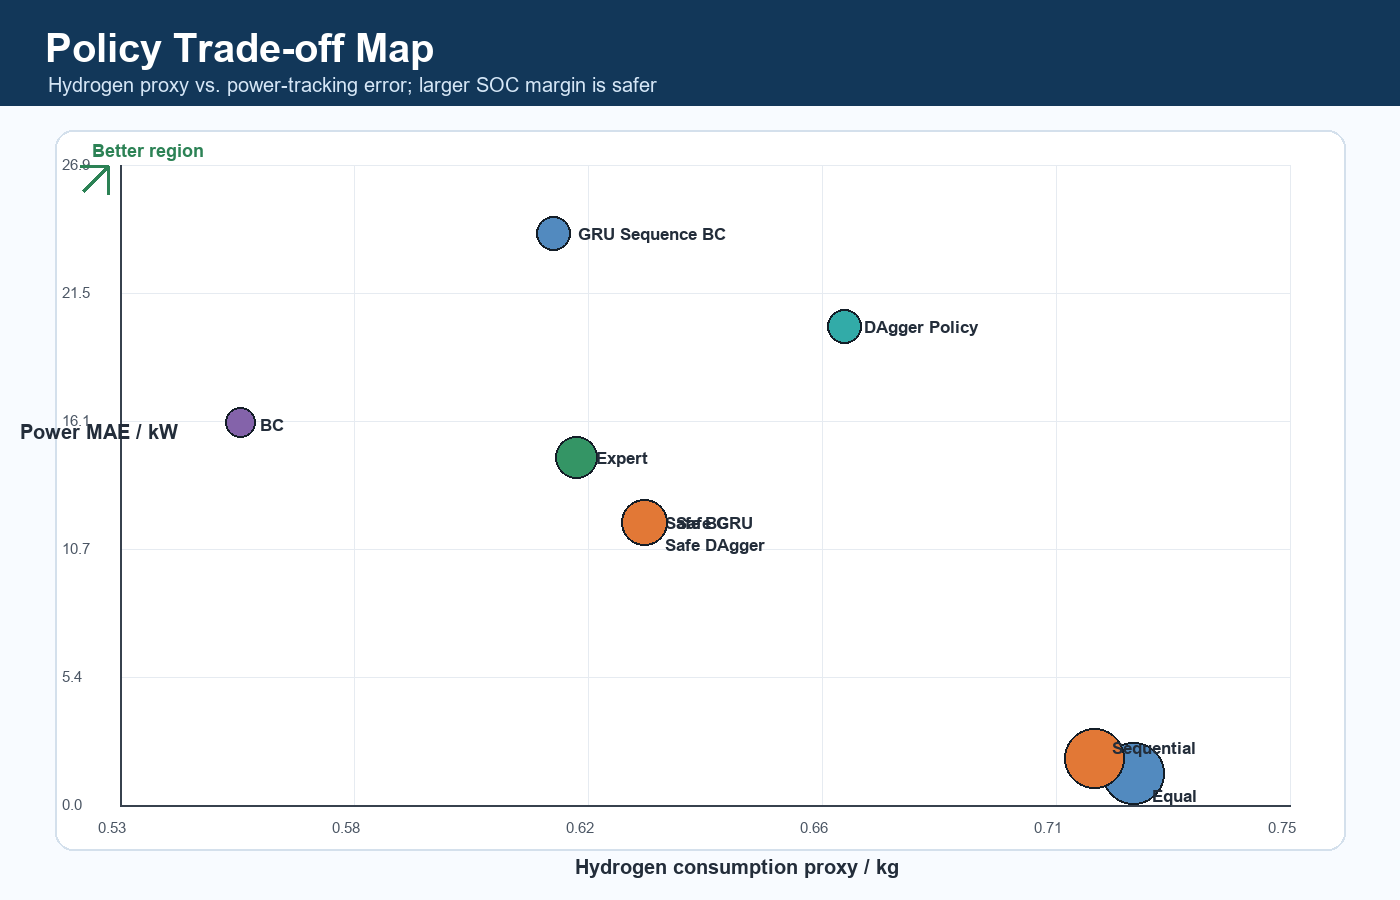
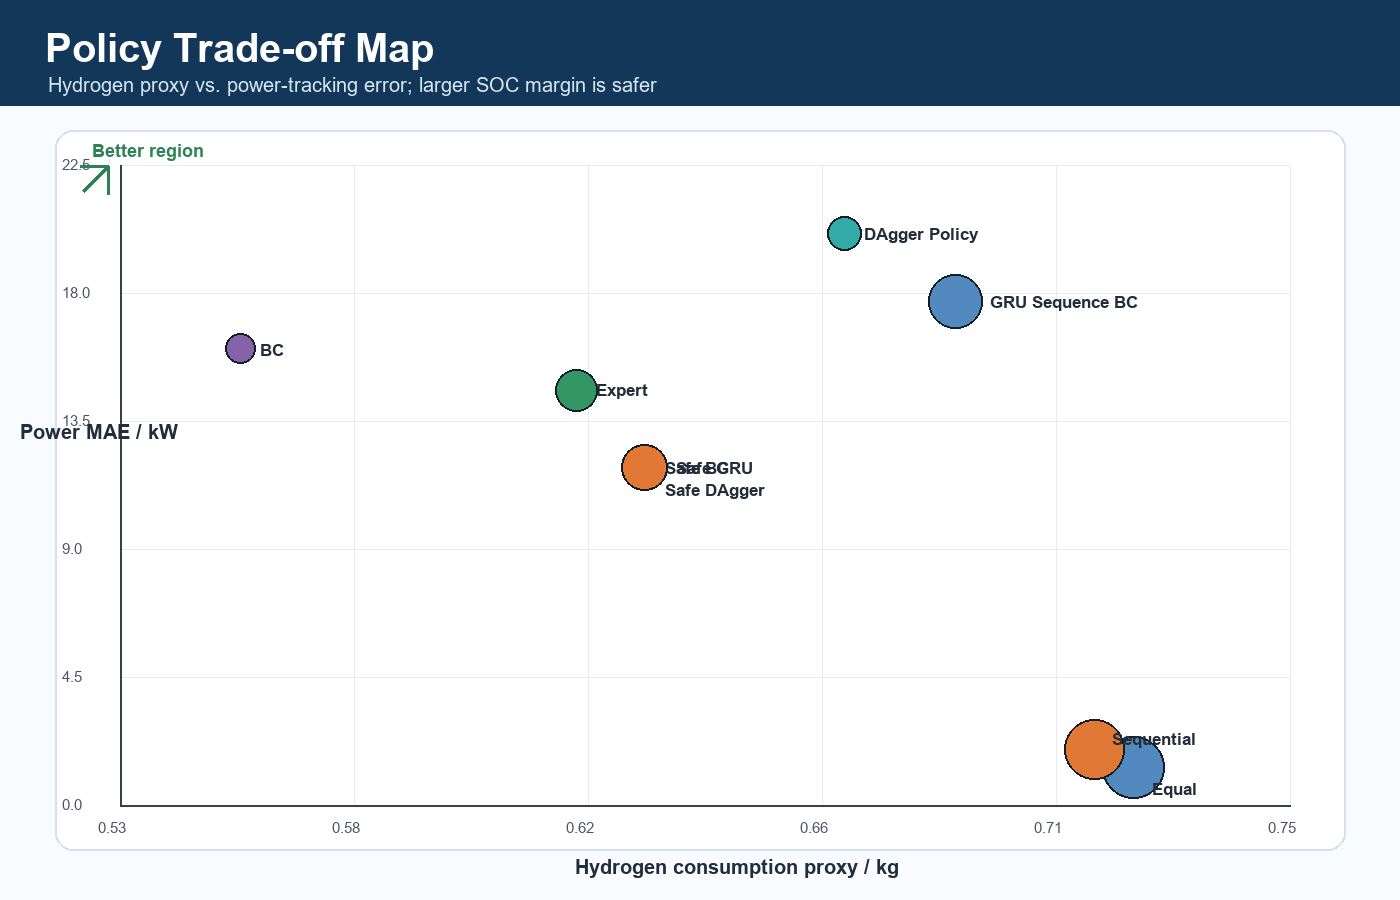
Add EPA expert data pipeline for sequence BC

diff --git a/scripts/generate_cycle_expert_dataset.py b/scripts/generate_cycle_expert_dataset.py
@@ -1,0 +1,59 @@
+import argparse
+import sys
+from pathlib import Path
+
+import numpy as np
+
+ROOT = Path(__file__).resolve().parents[1]
+sys.path.insert(0, str(ROOT / "python"))
+
+from multistack_ai import EnvConfig, HealthAwareExpert, MultiStackFuelCellEnv, available_cycles, make_cycle_demand
+
+
+def collect_cycle(cycle: str, seed: int):
+    demand = make_cycle_demand(cycle)
+    env = MultiStackFuelCellEnv(EnvConfig(episode_len=len(demand), seed=seed), demand_profile=demand)
+    expert = HealthAwareExpert()
+    obs, _ = env.reset(seed=seed)
+    expert.reset()
+    xs, ys = [], []
+    done = False
+    while not done:
+        action = expert.act(obs)
+        xs.append(obs.copy())
+        ys.append(action.copy())
+        obs, _, terminated, truncated, _ = env.step(action)
+        done = terminated or truncated
+    return np.asarray(xs, dtype=np.float32), np.asarray(ys, dtype=np.float32)
+
+
+def main():
+    parser = argparse.ArgumentParser()
+    parser.add_argument("--cycles", nargs="*", default=available_cycles())
+    parser.add_argument("--repeat", type=int, default=2)
+    parser.add_argument("--out", type=Path, default=ROOT / "results" / "epa_expert_dataset.npz")
+    args = parser.parse_args()
+
+    all_x, all_y, lengths, names = [], [], [], []
+    for rep in range(args.repeat):
+        for cycle in args.cycles:
+            x, y = collect_cycle(cycle, seed=5000 + rep * 100 + len(names))
+            all_x.append(x)
+            all_y.append(y)
+            lengths.append(len(x))
+            names.append(cycle)
+            print(f"collected cycle={cycle} repeat={rep + 1} samples={len(x)}")
+
+    args.out.parent.mkdir(parents=True, exist_ok=True)
+    np.savez_compressed(
+        args.out,
+        X=np.concatenate(all_x).astype(np.float32),
+        Y=np.concatenate(all_y).astype(np.float32),
+        episode_lengths=np.asarray(lengths, dtype=np.int32),
+        cycle_names=np.asarray(names),
+    )
+    print(f"saved {sum(lengths)} EPA expert samples to {args.out}")
+
+
+if __name__ == "__main__":
+    main()

diff --git a/python/multistack_ai/imitation.py b/python/multistack_ai/imitation.py
@@ -70,23 +70,45 @@ def split_dataset(x, y, val_fraction: float = 0.15, seed: int = 7):
     return x[train_idx], x[val_idx], y[train_idx], y[val_idx]
 
 
-def make_sequence_dataset(x, y, episode_len: int = 1200, seq_len: int = 32, stride: int = 8):
+def make_sequence_dataset(
+    x,
+    y,
+    episode_len: int | None = 1200,
+    seq_len: int = 32,
+    stride: int = 8,
+    episode_lengths: list[int] | np.ndarray | None = None,
+):
     """Build rolling windows from contiguous expert trajectories."""
 
     x = np.asarray(x, dtype=np.float32)
     y = np.asarray(y, dtype=np.float32)
-    n_episodes = len(x) // episode_len
-    if n_episodes < 1:
-        raise ValueError("dataset is shorter than one episode")
+    if episode_lengths is None:
+        if episode_len is None:
+            raise ValueError("episode_len is required when episode_lengths is not provided")
+        n_episodes = len(x) // episode_len
+        if n_episodes < 1:
+            raise ValueError("dataset is shorter than one episode")
+        episode_lengths = np.full(n_episodes, episode_len, dtype=int)
+    else:
+        episode_lengths = np.asarray(episode_lengths, dtype=int)
+        if int(np.sum(episode_lengths)) > len(x):
+            raise ValueError("episode_lengths exceed dataset length")
+
     xs, ys = [], []
-    for ep in range(n_episodes):
-        start = ep * episode_len
-        end = start + episode_len
+    start = 0
+    for length in episode_lengths:
+        end = start + int(length)
         ep_x = x[start:end]
         ep_y = y[start:end]
-        for offset in range(0, episode_len - seq_len + 1, stride):
+        if len(ep_x) < seq_len:
+            start = end
+            continue
+        for offset in range(0, len(ep_x) - seq_len + 1, stride):
             xs.append(ep_x[offset : offset + seq_len])
             ys.append(ep_y[offset : offset + seq_len])
+        start = end
+    if not xs:
+        raise ValueError("no sequence windows could be built")
     return np.asarray(xs, dtype=np.float32), np.asarray(ys, dtype=np.float32)
 
 

diff --git a/scripts/train_sequence_bc.py b/scripts/train_sequence_bc.py
@@ -16,7 +16,7 @@ from multistack_ai.imitation import make_sequence_dataset, split_dataset
 
 def main():
     parser = argparse.ArgumentParser()
-    parser.add_argument("--data", type=Path, default=ROOT / "results" / "expert_dataset.npz")
+    parser.add_argument("--data", type=Path, nargs="+", default=[ROOT / "results" / "expert_dataset.npz"])
     parser.add_argument("--episode-len", type=int, default=1200)
     parser.add_argument("--seq-len", type=int, default=32)
     parser.add_argument("--stride", type=int, default=8)
@@ -28,14 +28,23 @@ def main():
     parser.add_argument("--history", type=Path, default=ROOT / "results" / "sequence_bc_training_history.csv")
     args = parser.parse_args()
 
-    data = np.load(args.data)
-    seq_x, seq_y = make_sequence_dataset(
-        data["X"],
-        data["Y"],
-        episode_len=args.episode_len,
-        seq_len=args.seq_len,
-        stride=args.stride,
-    )
+    seq_parts_x, seq_parts_y = [], []
+    for data_path in args.data:
+        data = np.load(data_path)
+        episode_lengths = data["episode_lengths"] if "episode_lengths" in data.files else None
+        seq_x, seq_y = make_sequence_dataset(
+            data["X"],
+            data["Y"],
+            episode_len=args.episode_len,
+            seq_len=args.seq_len,
+            stride=args.stride,
+            episode_lengths=episode_lengths,
+        )
+        seq_parts_x.append(seq_x)
+        seq_parts_y.append(seq_y)
+        print(f"loaded {data_path} -> {len(seq_x)} sequence windows")
+    seq_x = np.concatenate(seq_parts_x).astype(np.float32)
+    seq_y = np.concatenate(seq_parts_y).astype(np.float32)
     x_train, x_val, y_train, y_val = split_dataset(seq_x, seq_y, seed=17)
     loader = DataLoader(
         TensorDataset(torch.tensor(x_train), torch.tensor(y_train)),
@@ -73,6 +82,7 @@ def main():
             "hidden": args.hidden,
             "seq_len": args.seq_len,
             "stride": args.stride,
+            "sources": [str(path) for path in args.data],
         },
         args.out,
     )

diff --git a/scripts/generate_experiment_report.py b/scripts/generate_experiment_report.py
@@ -217,7 +217,7 @@ def write_report(policy_rows, cycle_rows):
         f"- Highest SOC margin: **{best_soc['policy']}** (minimum SOC {to_float(best_soc, 'soc_min'):.4f}).",
         f"- Fewest start-stop events: **{best_start['policy']}** ({to_float(best_start, 'start_stop_count'):.2f}).",
         "",
-        "The raw neural policies expose a useful learning-control trade-off: they can reduce hydrogen proxy or start-stop events, but they may leave too much compensation to the battery on difficult cycles. The GRU sequence policy is especially smooth, reaching the lowest start-stop count in the random benchmark, but its cross-cycle SOC margin is weaker without correction.",
+        "The raw neural policies expose a useful learning-control trade-off: they can reduce hydrogen proxy or start-stop events, but they may leave too much compensation to the battery on difficult cycles. The mixed random/EPA-trained GRU sequence policy is especially smooth, reaching the lowest start-stop count while keeping much better cross-cycle SOC margin than the earlier random-only recurrent model.",
         "",
         "The safety-filtered variants improve deployment robustness by injecting interpretable SOC and stack-limit constraints around the learned controllers. This is why the safety-filtered BC, DAgger and GRU policies cluster together: the neural policy supplies the nominal dispatch style, while the safety layer enforces engineering feasibility.",
     ]

diff --git a/tests/test_imitation.py b/tests/test_imitation.py
@@ -39,3 +39,14 @@ def test_sequence_dataset_and_gru_policy_act():
 
     assert action.shape == (4,)
     assert ((action >= 0.0) & (action <= 1.0)).all()
+
+
+def test_sequence_dataset_accepts_variable_episode_lengths():
+    x, y = collect_expert_data(episodes=1, seed=50, episode_len=12)
+    x = x[:10]
+    y = y[:10]
+
+    seq_x, seq_y = make_sequence_dataset(x, y, episode_lengths=[6, 4], seq_len=3, stride=2)
+
+    assert seq_x.shape == (3, 3, 11)
+    assert seq_y.shape == (3, 3, 4)

diff --git a/results/experiment_report.md b/results/experiment_report.md
@@ -8,29 +8,29 @@ This report is generated from the latest benchmark CSV files.
 
 | policy | score | h2_proxy_kg | power_mae_kw | start_stop_count | soc_min |
 | --- | --- | --- | --- | --- | --- |
-| Sequential | 0.6510 | 0.7131 | 1.96 | 174.88 | 0.6496 |
-| Safety-Filtered GRU | 0.6005 | 0.6301 | 11.84 | 107.25 | 0.6255 |
-| Safety-Filtered DAgger | 0.6004 | 0.6301 | 11.84 | 107.50 | 0.6255 |
-| Safety-Filtered BC | 0.5992 | 0.6301 | 11.84 | 111.38 | 0.6255 |
-| BC Neural Policy | 0.5896 | 0.5555 | 16.05 | 54.62 | 0.5973 |
-| HC-MPC-style Expert | 0.5795 | 0.6174 | 14.57 | 57.50 | 0.6194 |
+| Sequential | 0.6492 | 0.7131 | 1.96 | 174.88 | 0.6496 |
+| Safety-Filtered DAgger | 0.5713 | 0.6301 | 11.84 | 107.50 | 0.6255 |
+| Safety-Filtered GRU | 0.5712 | 0.6301 | 11.84 | 107.88 | 0.6255 |
+| Safety-Filtered BC | 0.5702 | 0.6301 | 11.84 | 111.38 | 0.6255 |
+| BC Neural Policy | 0.5489 | 0.5555 | 16.05 | 54.62 | 0.5973 |
+| HC-MPC-style Expert | 0.5429 | 0.6174 | 14.57 | 57.50 | 0.6194 |
 | Equal | 0.5000 | 0.7204 | 1.32 | 657.00 | 0.6500 |
-| GRU Sequence BC | 0.4272 | 0.6132 | 23.99 | 4.00 | 0.6058 |
-| DAgger Policy | 0.3593 | 0.6669 | 20.07 | 53.50 | 0.6040 |
+| GRU Sequence BC | 0.4545 | 0.6874 | 17.68 | 4.00 | 0.6385 |
+| DAgger Policy | 0.3074 | 0.6669 | 20.07 | 53.50 | 0.6040 |
 
 ## Cross-Cycle Average Leaderboard
 
 | policy | score | h2_proxy_kg | power_mae_kw | start_stop_count | soc_min |
 | --- | --- | --- | --- | --- | --- |
-| Sequential | 0.5680 | 1.3082 | 10.95 | 236.00 | 0.6498 |
-| BC Neural Policy | 0.5589 | 0.8990 | 50.22 | 58.60 | 0.5566 |
-| Safety-Filtered DAgger | 0.5534 | 1.1873 | 35.96 | 118.80 | 0.6423 |
-| Safety-Filtered BC | 0.5532 | 1.1873 | 35.96 | 119.20 | 0.6423 |
-| Safety-Filtered GRU | 0.5499 | 1.1873 | 35.96 | 125.60 | 0.6423 |
-| DAgger Policy | 0.5298 | 0.8096 | 54.39 | 44.40 | 0.5031 |
-| HC-MPC-style Expert | 0.5287 | 1.1390 | 47.22 | 79.40 | 0.6316 |
-| Equal | 0.5005 | 1.3071 | 9.04 | 384.00 | 0.6500 |
-| GRU Sequence BC | 0.5000 | 0.6942 | 68.10 | 4.00 | 0.4688 |
+| Sequential | 0.5651 | 1.3082 | 10.95 | 236.00 | 0.6498 |
+| Safety-Filtered GRU | 0.5251 | 1.1873 | 35.96 | 116.40 | 0.6423 |
+| Safety-Filtered DAgger | 0.5238 | 1.1873 | 35.96 | 118.80 | 0.6423 |
+| Safety-Filtered BC | 0.5236 | 1.1873 | 35.96 | 119.20 | 0.6423 |
+| BC Neural Policy | 0.5179 | 0.8990 | 50.22 | 58.60 | 0.5566 |
+| Equal | 0.5007 | 1.3071 | 9.04 | 384.00 | 0.6500 |
+| GRU Sequence BC | 0.4865 | 1.2060 | 49.02 | 4.00 | 0.6423 |
+| HC-MPC-style Expert | 0.4845 | 1.1390 | 47.22 | 79.40 | 0.6316 |
+| DAgger Policy | 0.4787 | 0.8096 | 54.39 | 44.40 | 0.5031 |
 
 ## Key Observations
 
@@ -39,6 +39,6 @@ This report is generated from the latest benchmark CSV files.
 - Highest SOC margin: **Equal** (minimum SOC 0.6500).
 - Fewest start-stop events: **GRU Sequence BC** (4.00).
 
-The raw neural policies expose a useful learning-control trade-off: they can reduce hydrogen proxy or start-stop events, but they may leave too much compensation to the battery on difficult cycles. The GRU sequence policy is especially smooth, reaching the lowest start-stop count in the random benchmark, but its cross-cycle SOC margin is weaker without correction.
+The raw neural policies expose a useful learning-control trade-off: they can reduce hydrogen proxy or start-stop events, but they may leave too much compensation to the battery on difficult cycles. The mixed random/EPA-trained GRU sequence policy is especially smooth, reaching the lowest start-stop count while keeping much better cross-cycle SOC margin than the earlier random-only recurrent model.
 
 The safety-filtered variants improve deployment robustness by injecting interpretable SOC and stack-limit constraints around the learned controllers. This is why the safety-filtered BC, DAgger and GRU policies cluster together: the neural policy supplies the nominal dispatch style, while the safety layer enforces engineering feasibility.

diff --git a/docs/resume_and_roadmap.md b/docs/resume_and_roadmap.md
@@ -5,7 +5,7 @@
 - Built a Gymnasium-based multi-stack fuel-cell hybrid energy management environment with SOC dynamics, stack SOH degradation, start-stop penalties and ramp-rate constraints.
 - Designed a health-aware HC-MPC-style expert controller for asymmetric stack power allocation and lifetime-aware load shifting.
 - Generated expert demonstrations and trained a PyTorch behavior cloning policy to approximate continuous stack power allocation.
-- Added a GRU sequence-imitation policy to model history-dependent dispatch behavior under ramp-rate and SOC dynamics.
+- Added a GRU sequence-imitation policy trained on mixed random and EPA-cycle expert data to model history-dependent dispatch behavior under ramp-rate and SOC dynamics.
 - Compared equal allocation, sequential loading, expert control and neural policy using hydrogen consumption proxy, SOC range, SOH variance, power tracking error and start-stop count.
 - Prepared an optional SAC reinforcement-learning entrypoint for future policy fine-tuning under multi-objective rewards.
 
@@ -13,7 +13,7 @@
 
 This project starts from a conventional multi-stack fuel-cell EMS simulation and extends it into an AI control platform. The original control objective is not only to meet vehicle power demand, but also to reduce hydrogen consumption and improve lifetime consistency among stacks with different initial SOH.
 
-The AI extension uses the HC-MPC-style controller as an expert. A neural policy first learns the expert state-action mapping through behavior cloning, which gives a stable initialization. The project now includes both a single-step MLP policy and a GRU sequence policy, making it possible to discuss why temporal memory helps smooth stack dispatch but still needs explicit safety correction. Reinforcement learning can then be used as a second stage to fine-tune the policy for better trade-offs among hydrogen economy, SOC stability and SOH balancing.
+The AI extension uses the HC-MPC-style controller as an expert. A neural policy first learns the expert state-action mapping through behavior cloning, which gives a stable initialization. The project now includes both a single-step MLP policy and a GRU sequence policy. The GRU path also shows a useful data story: adding EPA-cycle expert trajectories improves cross-cycle SOC generalization, while the recurrent policy still tends to smooth stack dispatch and benefits from explicit safety correction. Reinforcement learning can then be used as a second stage to fine-tune the policy for better trade-offs among hydrogen economy, SOC stability and SOH balancing.
 
 ## Near-Term Roadmap
 
@@ -23,7 +23,7 @@ The AI extension uses the HC-MPC-style controller as an expert. A neural policy 
 
 2. **Sequence-model refinement**
    - Compare GRU, temporal CNN and small Transformer policies.
-   - Train on EPA cycle rollouts as well as random expert trajectories.
+   - Compare random-only training with mixed random/EPA expert training.
    - Add ablations for sequence length and rollout horizon.
 
 3. **SAC fine-tuning**

diff --git a/docs/sequence_bc.md b/docs/sequence_bc.md
@@ -11,17 +11,19 @@ The original MLP behavior-cloning policy treats each control step as an independ
 Run:
 
 ```bash
-python scripts/train_sequence_bc.py --epochs 8 --seq-len 32 --stride 8
+python scripts/generate_cycle_expert_dataset.py --repeat 2
+python scripts/train_sequence_bc.py --data results/expert_dataset.npz results/epa_expert_dataset.npz --epochs 10 --seq-len 32 --stride 8
 ```
 
 Generated files:
 
 ```text
+results/epa_expert_dataset.npz
 results/sequence_bc_policy.pt
 results/sequence_bc_training_history.csv
 ```
 
-The script slices the expert demonstration dataset into rolling windows. The model predicts the expert stack-power action at every step in the window, not only at the final step. This makes the recurrent model learn both local action mapping and short-horizon temporal consistency.
+The EPA expert dataset records HC-MPC-style expert trajectories on LA92, US06, UDDS, HWFET and the mixed EPA profile. The training script then combines the original random expert data with the EPA-cycle expert data and slices both sources into rolling windows. The model predicts the expert stack-power action at every step in the window, not only at the final step. This makes the recurrent model learn both local action mapping and short-horizon temporal consistency.
 
 ## Evaluation
 
@@ -34,4 +36,4 @@ The first result is intentionally left as a raw learned controller. The second w
 
 ## Current Interpretation
 
-In the latest benchmark, the raw GRU policy strongly reduces stack start-stop events, but it can allow deeper SOC drawdown on aggressive EPA cycles. The safety-filtered GRU restores SOC margin and tracking behavior while preserving the recurrent policy as the base controller. This is a realistic research outcome: a sequence model captures smoother dispatch behavior, but safety constraints are still needed for deployment-grade EMS control.
+The first GRU model trained only on random expert episodes was smooth but weak on some aggressive EPA cycles. After adding EPA-cycle expert trajectories to the training set, the raw GRU policy keeps its very low start-stop count while its cross-cycle SOC margin improves sharply. The remaining trade-off is tracking error: the recurrent policy tends to smooth stack dispatch, so the safety-filtered GRU variant remains the more deployment-oriented controller.

diff --git a/README.md b/README.md
@@ -25,7 +25,7 @@ Current strategy ladder:
 - Trained a neural policy to approximate stack power allocation.
 - Added a safety-filtered neural controller that improves SOC robustness and power tracking without retraining.
 - Added a DAgger-style data aggregation loop for deeper imitation-learning research.
-- Added a GRU sequence imitation baseline to capture history-dependent EMS behavior.
+- Added a GRU sequence imitation baseline trained with mixed random and EPA-cycle expert data to capture history-dependent EMS behavior.
 - Replaced the default synthetic cycle benchmark with official EPA drive schedules, led by LA92 Class 3 Heavy-Duty.
 - Added a sensitivity study for expert-controller parameters: filter coefficient, SOC feedback gain and health-aware allocation exponent.
 - Evaluated strategies using hydrogen proxy, SOC range, SOH variance, tracking error and start-stop count.
@@ -54,6 +54,7 @@ The neural policy is trained through behavior cloning:
 ```text
 HC-MPC-style expert trajectories -> supervised dataset -> PyTorch MLP policy
 learner rollouts -> expert relabeling -> aggregated DAgger dataset
+random + EPA expert trajectories -> rolling windows -> GRU sequence policy
 ```
 
 This creates a stable AI baseline before adding SAC or constrained RL.
@@ -88,7 +89,8 @@ python scripts/generate_experiment_report.py
 python scripts/safety_filter_sweep.py
 python scripts/plot_policy_trajectories.py --cycle epa_la92
 python scripts/train_dagger.py
-python scripts/train_sequence_bc.py --epochs 8 --seq-len 32 --stride 8
+python scripts/generate_cycle_expert_dataset.py --repeat 2
+python scripts/train_sequence_bc.py --data results/expert_dataset.npz results/epa_expert_dataset.npz --epochs 10 --seq-len 32 --stride 8
 ```
 
 If `results/dagger_policy.pt` exists after running `train_dagger.py`, the evaluation scripts automatically include DAgger and Safety-Filtered DAgger in the comparison.

diff --git a/docs/methodology.md b/docs/methodology.md
@@ -32,4 +32,4 @@ The reward penalizes hydrogen consumption proxy, SOC deviation, SOH variance, st
 
 ## Sequence Learning Extension
 
-The GRU policy uses the same observation and action definitions, but it keeps a recurrent hidden state during rollout. Training uses rolling windows from expert trajectories, so the model learns short-horizon temporal consistency instead of treating each sample as independent. This is useful for EMS control because stack ramping, SOC drift and previous power allocation all carry information across time.
+The GRU policy uses the same observation and action definitions, but it keeps a recurrent hidden state during rollout. Training uses rolling windows from both random expert trajectories and EPA-cycle expert trajectories, so the model learns short-horizon temporal consistency instead of treating each sample as independent. This is useful for EMS control because stack ramping, SOC drift and previous power allocation all carry information across time. Adding EPA-cycle expert data also reduces the distribution shift between random training episodes and standardized drive-cycle evaluation.
